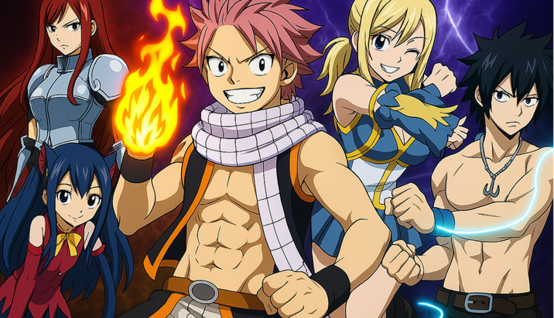
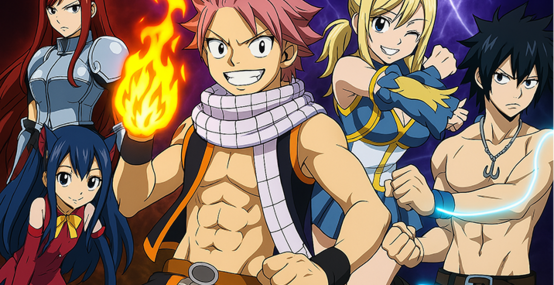
join add

diff --git a/src/css/join.css b/src/css/join.css
@@ -1,0 +1,74 @@
+.join__title {
+  padding-left: 25px;
+  padding-right: 25px;
+  margin-bottom: 24px;
+}
+
+.join__img {
+  margin-bottom: 24px;
+  /* border: 2px solid var(--main-color); */
+}
+
+.join__label {
+  font-weight: 500;
+  font-size: 24px;
+  letter-spacing: 0.02em;
+  text-align: center;
+  margin-bottom: 8px;
+}
+
+.join__cta {
+  font-size: 20px;
+  text-align: center;
+  margin-bottom: 40px;
+}
+
+@media screen and (min-width: 1200px) {
+  .join .container {
+    display: grid;
+    grid-template-columns: repeat(2, 1fr);
+    grid-template-rows: 41px 184px;
+    column-gap: 20px;
+    row-gap: 60px;
+  }
+
+  .join__title {
+    font-size: 32px;
+
+    padding-left: 0;
+    padding-right: 0;
+    margin-right: auto;
+    margin-bottom: 0;
+
+    grid-row: 1;
+    grid-column: 1;
+  }
+
+  .join__picture {
+    grid-row: 1 / span 2;
+    grid-column: 2;
+  }
+
+  .join__img {
+    margin-bottom: 0;
+  }
+
+  .join__content-wrapper {
+    grid-row: 2;
+    grid-column: 1;
+  }
+
+  .join__label {
+    text-align: left;
+    margin-bottom: 16px;
+  }
+
+  .join__cta {
+    text-align: left;
+  }
+
+  .join__gpl-btn-wrapper {
+    display: flex;
+    justify-content: start;
+  }
+}

diff --git a/src/css/hero.css b/src/css/hero.css
@@ -2,7 +2,6 @@
   background-position: bottom center;
   background-repeat: no-repeat;
   overflow: visible;
-  /* background-size: cover; */
 }
 
 .hero .container {
@@ -20,36 +19,9 @@
   margin-bottom: 40px;
 }
 
-.hero__gpl-btn {
+.hero__gpl-btn-wrapper {
   display: flex;
-  justify-content: space-between;
-  align-items: center;
-  width: 288px;
-  height: 62px;
-  border: none;
-  border-radius: 8px;
-  padding: 16px 18px;
-  margin: 0 auto;
-
-  color: inherit;
-  background-color: var(--button-bg-color);
-}
-
-.hero__gpl-icon-wrapper {
-  width: 30px;
-  height: 30px;
-  padding: 1px 4px;
-  background-color: #003055;
-  border-radius: 4px;
-}
-
-.hero__gpl-icon {
-  width: 22px;
-  height: 28px;
-}
-
-.hero__gpl-btn-text {
-  font-weight: 500;
+  justify-content: center;
 }
 
 @media screen and (max-width: 1199px) {
@@ -76,29 +48,8 @@
     padding-bottom: 0;
   }
 
-  .container {
-  }
-
-  .hero__title {
-  }
-
   .hero__text {
     font-size: 20px;
     margin-bottom: 60px;
-  }
-
-  .hero__gpl-btn {
-    width: 384px;
-    padding: 16px 40px;
-  }
-
-  .hero__gpl-icon-wrapper {
-  }
-
-  .hero__gpl-icon {
-  }
-
-  .hero__gpl-btn-text {
-    font-size: 20px;
   }
 }

diff --git a/src/partials/join.html b/src/partials/join.html
@@ -1,0 +1,35 @@
+<section class="join">
+  <div class="container">
+    <h2 class="join__title">Begin Your Legend Now!</h2>
+    <picture class="join__picture">
+      <source
+        media="(min-width: 1200px)"
+        srcset="
+          /img/join/heroes-desktop.png    1x,
+          /img/join/heroes-desktop@2x.png 2x
+        "
+      />
+      <source
+        media="(max-width: 1199px)"
+        srcset="
+          /img/join/heroes-mobile.png    1x,
+          /img/join/heroes-mobile@2x.png 2x
+        "
+      />
+
+      <img
+        class="join__img"
+        src="/img/join/heroes-mobile.png"
+        alt="game heroes"
+      />
+    </picture>
+    <div class="join__content-wrapper">
+      <p class="join__label">Download Dynasty</p>
+      <p class="join__cta">Fallen & Rise and Forge Your Path to Glory!</p>
+
+      <div class="join__gpl-btn-wrapper">
+        <load src="/partials/gpl-btn.html" />
+      </div>
+    </div>
+  </div>
+</section>

diff --git a/src/partials/hero.html b/src/partials/hero.html
@@ -1,18 +1,14 @@
 <section class="hero" id="hero">
   <div class="container">
     <h1 class="hero__title">
-      Fairy Legends: Tail&nbsp;Quest – Unravel the Magic, Rewrite the Tale!
+      Fairy Legends: Tail&nbsp;Quest - Unravel the Magic, Rewrite the Tale!
     </h1>
     <p class="hero__text">
       Enter a world of ancient myths, magical creatures, and enchanted battles!
     </p>
-    <button class="hero__gpl-btn" type="button">
-      <div class="hero__gpl-icon-wrapper">
-        <svg class="hero__gpl-icon">
-          <use href="./img/sprite.svg#google-play"></use>
-        </svg>
-      </div>
-      <span class="hero__gpl-btn-text">Download on Google Play</span>
-    </button>
+
+    <div class="hero__gpl-btn-wrapper">
+      <load src="/partials/gpl-btn.html" />
+    </div>
   </div>
 </section>

diff --git a/src/css/gpl-btn.css b/src/css/gpl-btn.css
@@ -1,0 +1,42 @@
+.gpl-btn {
+  display: flex;
+  justify-content: space-between;
+  align-items: center;
+  width: 100%;
+  height: 62px;
+  border: none;
+  border-radius: 8px;
+  padding: 16px 18px;
+
+  color: inherit;
+  background-color: var(--button-bg-color);
+}
+
+.gpl-btn__icon-wrapper {
+  width: 30px;
+  height: 30px;
+  padding: 1px 4px;
+  background-color: #003055;
+  border-radius: 4px;
+}
+
+.gpl-btn__icon {
+  width: 22px;
+  height: 28px;
+}
+
+.gpl-btn__text {
+  font-weight: 500;
+  text-shadow: 0 4px 20px 0 #000;
+}
+
+@media screen and (min-width: 1200px) {
+  .gpl-btn {
+    width: 384px;
+    padding: 16px 40px;
+  }
+
+  .gpl-btn__text {
+    font-size: 20px;
+  }
+}

diff --git a/src/partials/gpl-btn.html b/src/partials/gpl-btn.html
@@ -1,0 +1,12 @@
+<a
+  class="gpl-btn"
+  href="https://play.google.com/store/apps/details?id=com.ftohyufot.and&hl=en&gl=us"
+  target="_blank"
+>
+  <div class="gpl-btn__icon-wrapper">
+    <svg class="gpl-btn__icon">
+      <use href="./img/sprite.svg#google-play"></use>
+    </svg>
+  </div>
+  <span class="gpl-btn__text">Download on Google Play</span>
+</a>

diff --git a/src/css/styles.css b/src/css/styles.css
@@ -12,9 +12,10 @@
 
 /* Sections style */
 @import url('./header.css');
-@import url('./navigation.css');
 @import url('./nav-icon.css');
+@import url('./navigation.css');
 @import url('./hero.css');
+@import url('./gpl-btn.css');
 @import url('./about.css');
 @import url('./how-to-play.css');
 @import url('./game-features.css');

diff --git a/src/partials/game-atmosphere.html b/src/partials/game-atmosphere.html
@@ -19,7 +19,7 @@
         />
         <img
           class="atmosphere__img"
-          src="/img/game-atmosphere/fighters-desktop.png"
+          src="/img/game-atmosphere/fighters-mobile.png"
           alt="two fighters"
         />
       </picture>
